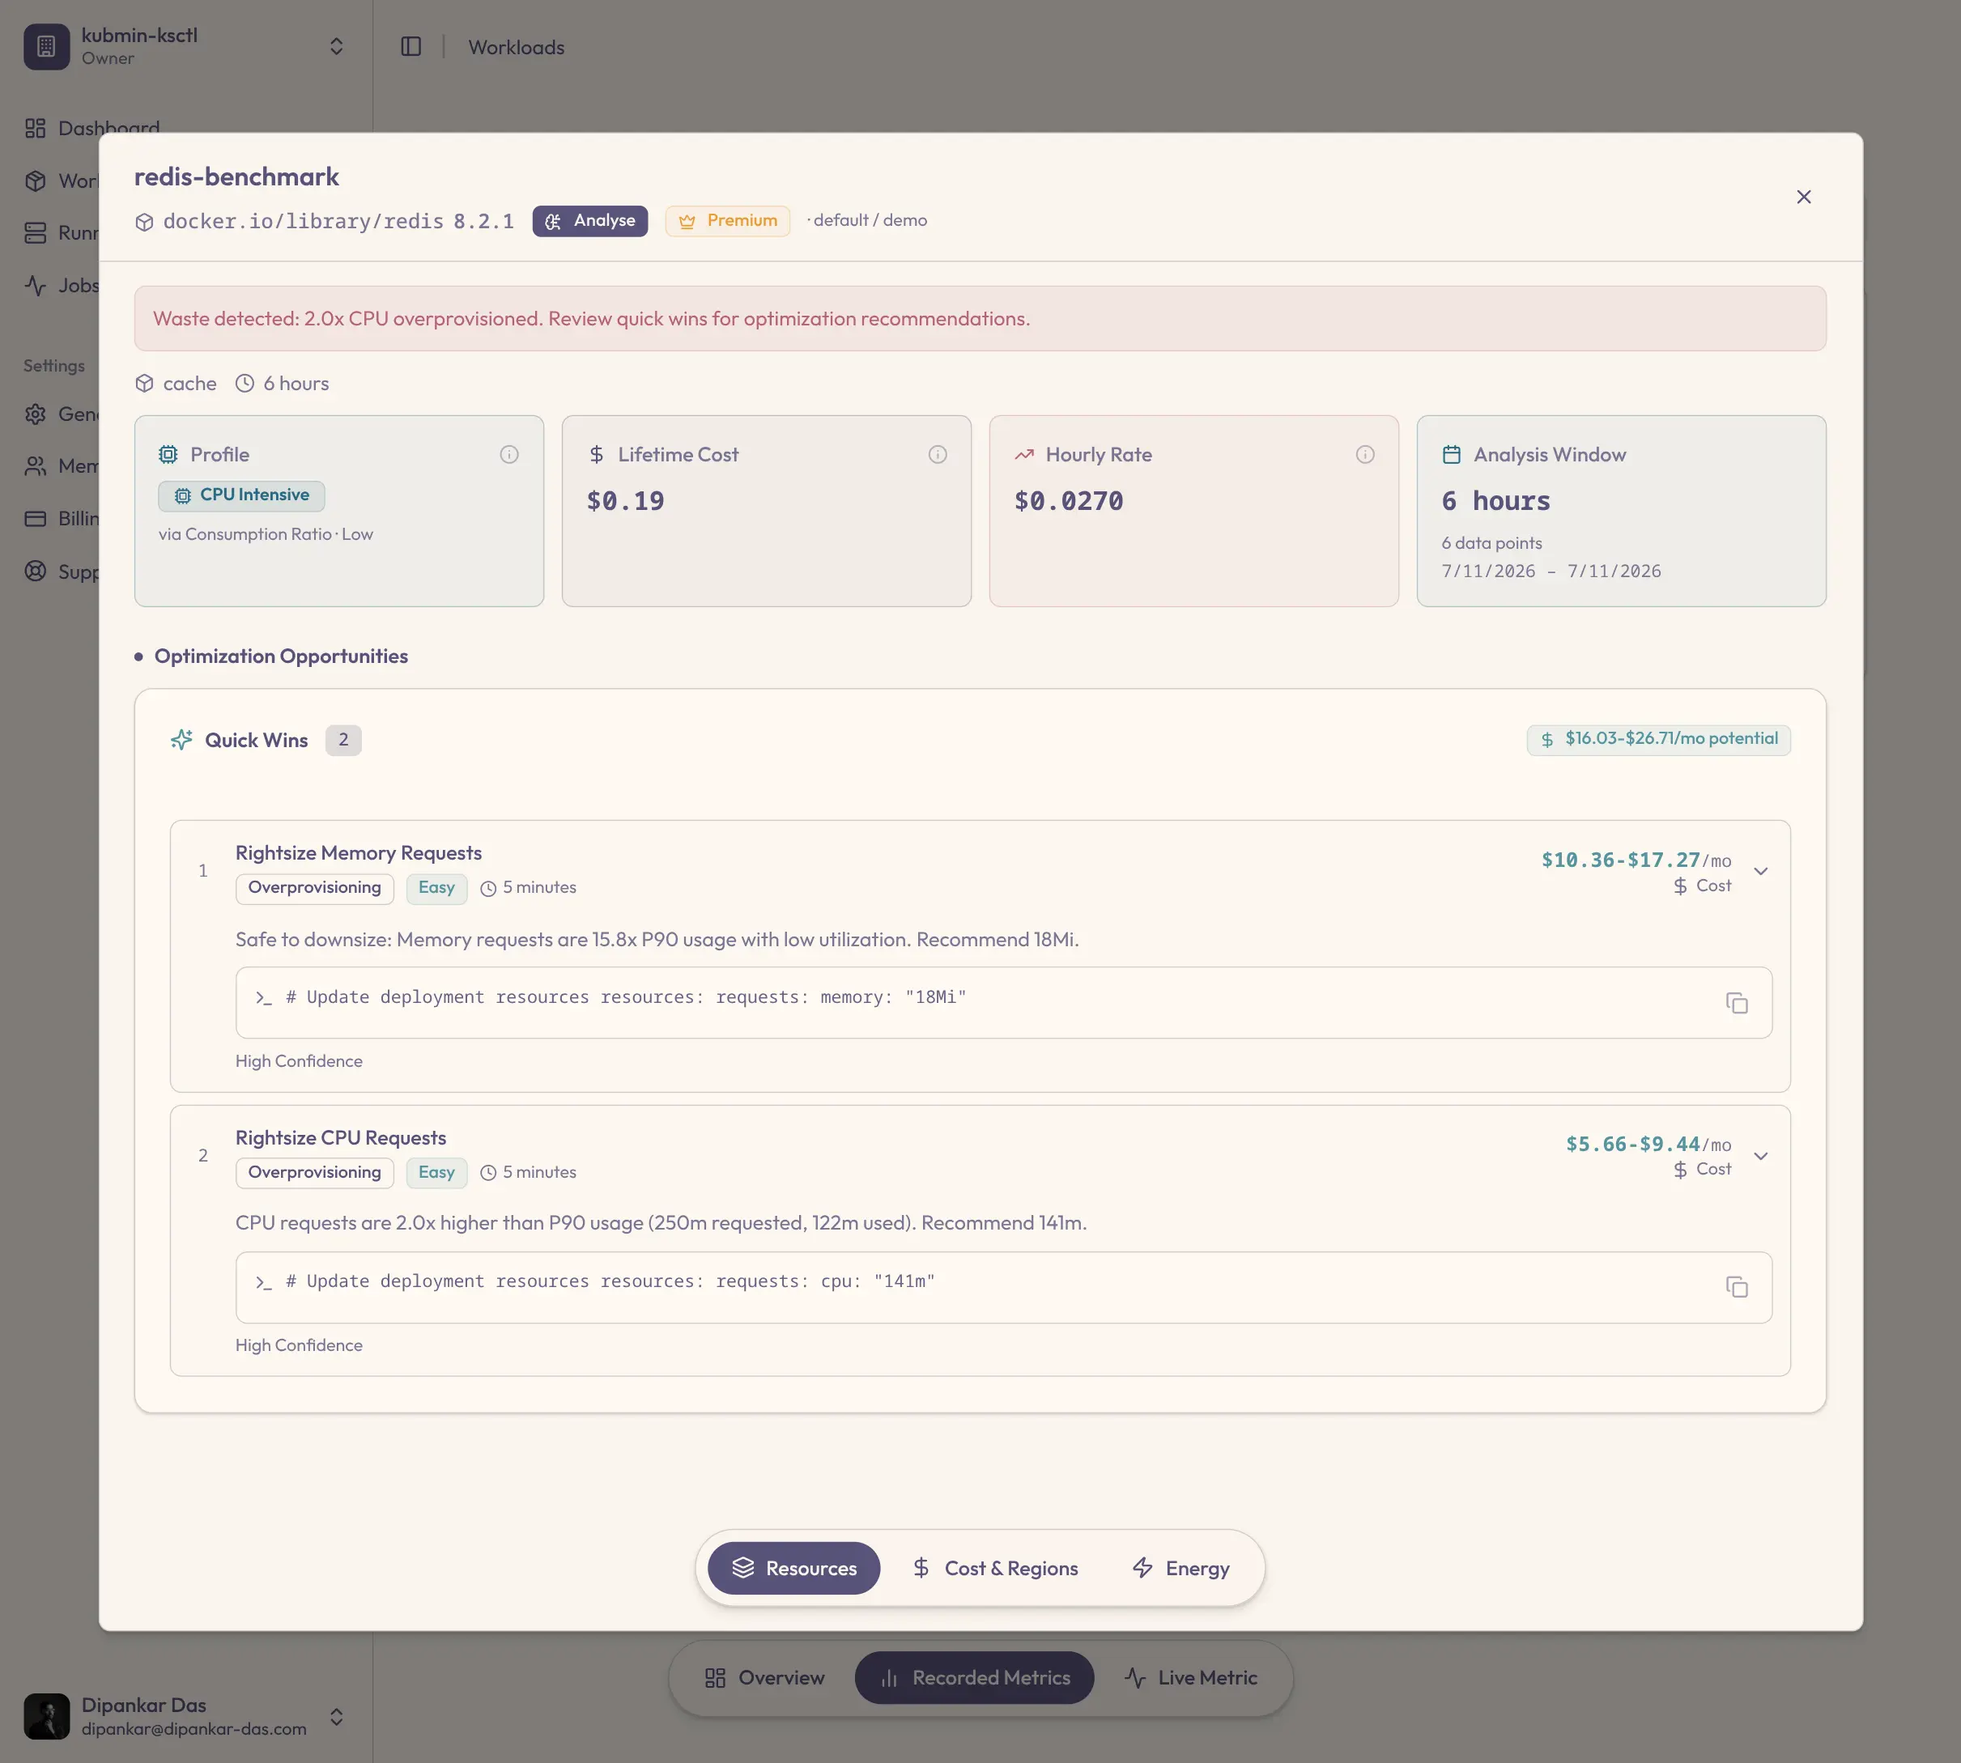
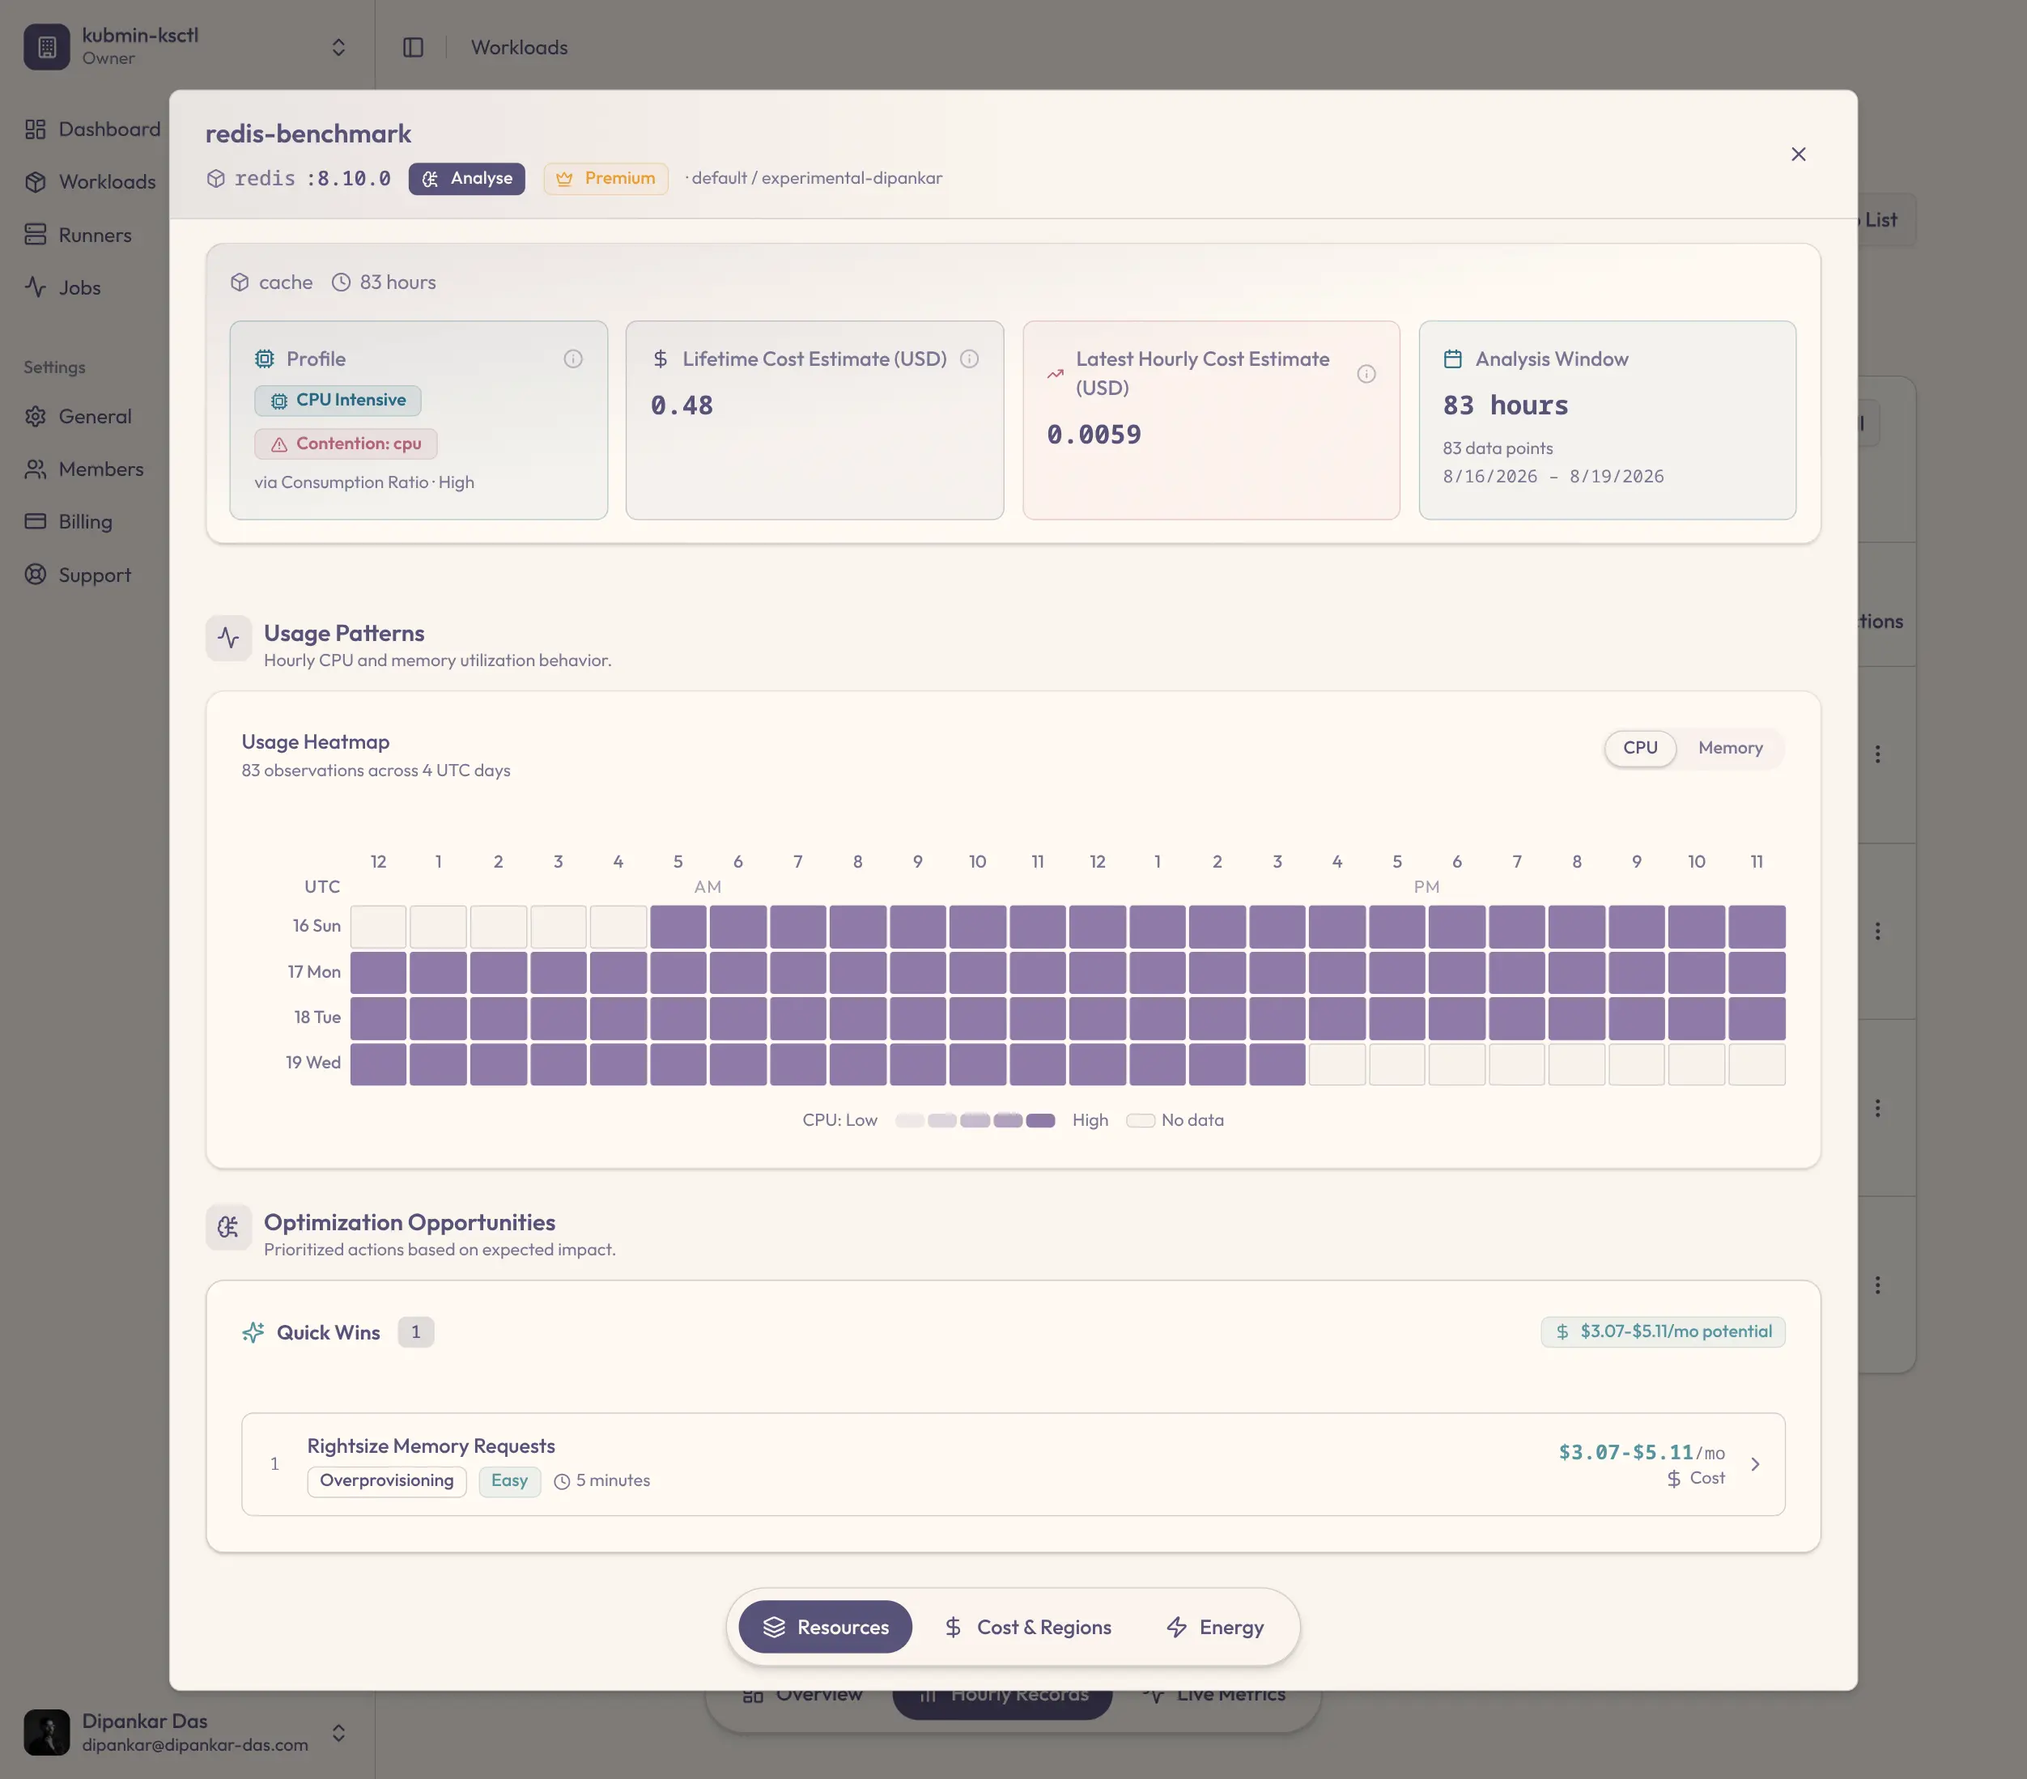
feat(kubmin): adopt SEI and visualize what SCI vs SEI reveal
Rename SEE to SEI (Software Energy Intensity) across the kubmin page to
match the kubmin backend's adoption of the GSF pre-draft SEI metric:
facility energy per measurement unit, where facility energy is Kepler's
IT energy scaled by each cloud's facility PUE (Azure 1.185, AWS 1.135,
GCP 1.1). Update the metric definitions, alt text, feature/comparison
copy, and the functional-unit annotation example to include pod scope.

Replace the SCI/SEI formula block in the measurement-unit section with
two conceptual charts that answer the same question a user cares about:
same workload, same moment, one event (the region's grid getting
greener) - SCI follows the grid while SEI stays flat, showing that SCI
counts where you run and SEI isolates pure efficiency. Refresh the
product screenshots to reflect the SEI UI.

diff --git a/src/data/kubmin.ts b/src/data/kubmin.ts
@@ -5,7 +5,7 @@
 export const meta = {
   title: "Kubmin — The Test Your Pipeline Is Missing: What Each Release Costs to Run",
   description:
-    "Every release is tested; almost none are measured. Kubmin tracks cost, energy, and SCI/SEE carbon per release — in your environment, on your configuration, divided by your app's own measurement unit like the HTTP requests it served.",
+    "Every release is tested; almost none are measured. Kubmin tracks cost, energy, and SCI/SEI carbon per release — in your environment, on your configuration, divided by your app's own measurement unit like the HTTP requests it served.",
 };
 
 export const links = {
@@ -39,7 +39,7 @@ export const hero = {
     "Unit tests pass. Chaos drills survive. Nobody measures what the release costs to run. Kubmin is that missing check.",
   punchlineAccent: "Kubmin is that missing check.",
   explain:
-    "Kubmin measures every release in your environment, on your configuration — cost, energy, and SCI/SEE carbon, divided by your application's own measurement unit: the requests it served, the jobs it ran. Then it points at the fix — idle time, a better region, a better instance type.",
+    "Kubmin measures every release in your environment, on your configuration — cost, energy, and SCI/SEI carbon, divided by your application's own measurement unit: the requests it served, the jobs it ran. Then it points at the fix — idle time, a better region, a better instance type.",
   cta: { text: "Start Free", href: links.app },
   secondaryCta: { text: "See the Redis comparison", href: "#demo" },
   logo: images.logo,
@@ -71,7 +71,7 @@ export const hero = {
   proofPoints: [
     "cost per release",
     "measured in your environment",
-    "SCI + SEE per measurement unit",
+    "SCI + SEI per measurement unit",
     "quick wins, kubectl-ready",
   ],
   screenshot: {
@@ -117,7 +117,7 @@ export const productDemo = {
   },
   screenshot: {
     src: images.screenshots.redis,
-    alt: "Kubmin multi-version comparison showing CPU, memory, energy, SCI, SEE, and cost differences across Redis 8.6.1, 8.4.0, and 8.2.1",
+    alt: "Kubmin multi-version comparison showing CPU, memory, energy, SCI, SEI, and cost differences across Redis 8.6.1, 8.4.0, and 8.2.1",
     browserUrl: "kubmin.ksctl.com/workloads/compareall",
   },
   stats: [
@@ -139,7 +139,7 @@ export const productDemo = {
     {
       value: "31%",
       label: "more efficient — 8.2.1 vs 8.4.0",
-      detail: "on SEE score",
+      detail: "on SEI score",
     },
   ],
   insight:
@@ -167,13 +167,13 @@ export const coreFeatures = {
       chapter: "02a",
       title: "Image Version Deep Profile",
       tag: "your deploy's real footprint",
-      body: "Point kubmin at an image tag and get that version's full running story: hourly SCI and SEE, energy, CPU, memory — and the lifetime cost of running it as a container, from first deploy to today. Not generic pod metrics. Version-scoped truth about what each build costs and consumes in production.",
-      metric: "hourly SCI · SEE · kWh · lifetime $",
+      body: "Point kubmin at an image tag and get that version's full running story: hourly SCI and SEI, energy, CPU, memory — and the lifetime cost of running it as a container, from first deploy to today. Not generic pod metrics. Version-scoped truth about what each build costs and consumes in production.",
+      metric: "hourly SCI · SEI · kWh · lifetime $",
       hasCrossRef: true,
       glow: "primary",
       screenshot: {
         src: "/kubmin/workload-detail-hourly.webp",
-        alt: "Kubmin hourly deep profile for redis 8.2.1 — SCI score, SEE score, operational and embodied carbon, energy, and P95 utilization",
+        alt: "Kubmin hourly deep profile for redis 8.2.1 — SCI score, SEI score, operational and embodied carbon, energy, and P95 utilization",
         browserUrl: "kubmin.ksctl.com/workloads/details",
       },
     },
@@ -182,13 +182,13 @@ export const coreFeatures = {
       chapter: "02b",
       title: "Version-over-Version Comparison",
       tag: "efficiency measured per release",
-      body: "Compare image versions across CPU, memory, energy, SCI, SEE, and runtime cost — per measurement unit of work. Ship a new release and know within hours whether it regressed 30% on efficiency, before the regression compounds into your bill.",
+      body: "Compare image versions across CPU, memory, energy, SCI, SEI, and runtime cost — per measurement unit of work. Ship a new release and know within hours whether it regressed 30% on efficiency, before the regression compounds into your bill.",
       metric: "caught +63% CPU drift between tags",
       hasCrossRef: true,
       glow: "energy",
       screenshot: {
         src: "/kubmin/compare-redis-casestudy.webp",
-        alt: "Kubmin image version comparison — SEE, overall carbon, energy, and SCI per tracked version",
+        alt: "Kubmin image version comparison — SEI, overall carbon, energy, and SCI per tracked version",
         browserUrl: "kubmin.ksctl.com/workloads/compareall",
       },
     },
@@ -259,10 +259,10 @@ export const whyEnergy = {
         "an ISO-accredited standard (ISO/IEC 21031:2024): the rate of carbon emissions per measurement unit of software — sensitive to energy efficiency, hardware efficiency, and carbon awareness.",
     },
     {
-      name: "SEE",
-      full: "Software Energy Efficiency",
+      name: "SEI",
+      full: "Software Energy Intensity",
       description:
-        "raw energy (kWh) per measurement unit — deliberately blind to grid carbon intensity, so pure efficiency regressions can't hide behind a cleaner grid.",
+        "facility energy (kWh) per measurement unit — Kepler's IT energy scaled by each cloud's facility PUE — deliberately blind to grid carbon intensity, so pure efficiency regressions can't hide behind a cleaner grid. A GSF pre-draft; Kubmin tracks it as provisional.",
     },
   ],
   combined:
@@ -310,19 +310,47 @@ export const measurementUnit = {
       scope: pod
       metric: http_requests_total
       match:
+        pod: $KUBMIN_POD_NAME
         container: $KUBMIN_CONTAINER_NAME`,
   outputsTitle: "what you read back, per release",
   outputs: [
-    { value: "kWh / request", note: "SEE — energy per measurement unit" },
+    { value: "kWh / request", note: "SEI — facility energy per measurement unit (PUE-adjusted)" },
     { value: "gCO₂e / request", note: "SCI — carbon per measurement unit" },
     { value: "$ / 1M requests", note: "runtime cost, in your units" },
   ],
-  formula: {
-    lead: "SCI",
-    numerator: "operational + embodied carbon",
-    denominator: "R — your measurement unit",
-    caption:
-      "R is whatever your application calls work: requests served, jobs processed, transactions settled. You declare it once — kubmin divides by it forever.",
+  insightCharts: {
+    heading: "Two scores. Two questions.",
+    headingAccent: "Two questions.",
+    intro:
+      "Same workload, same moment — the only thing that changes at the marker is the region's grid. Watch what each score does, and what it can tell you.",
+    charts: [
+      {
+        id: "sci",
+        label: "SCI · carbon per request",
+        tag: "gCO₂e / request",
+        legend: [
+          { key: "grid", label: "grid carbon intensity — where you run" },
+          { key: "sci", label: "SCI — follows the grid" },
+        ],
+        caption:
+          "Same code, same traffic. At the marker the region's grid gets greener — and SCI falls. SCI counts where you run: the full carbon per request, grid included.",
+        takeaway:
+          "How clean is this release for the planet? A greener region or a more efficient image both improve SCI — you see the total, not the cause.",
+      },
+      {
+        id: "sei",
+        label: "SEI · energy per request",
+        tag: "kWh / request",
+        legend: [
+          { key: "grid", label: "grid carbon intensity — same moment" },
+          { key: "sei", label: "SEI — ignores the grid" },
+        ],
+        caption:
+          "The same workload, the same moment — SEI doesn't flinch. Facility energy per request is pure efficiency, grid left out.",
+        takeaway:
+          "Is the code actually more efficient? When SEI climbs, your release regressed — no cleaner region can hide it, no dirtier grid can fake it.",
+      },
+    ],
   },
 };
 
@@ -342,7 +370,7 @@ export const howItWorks = {
     },
     {
       title: "Instrument Apps and See Results",
-      body: "Point your apps at Kubmin's in-cluster OTLP gRPC or HTTP endpoint. Kubmin turns metrics, logs, traces, and Kepler energy data into workload cost, efficiency, SCI/SEE, and Quick Wins.",
+      body: "Point your apps at Kubmin's in-cluster OTLP gRPC or HTTP endpoint. Kubmin turns metrics, logs, traces, and Kepler energy data into workload cost, efficiency, SCI/SEI, and Quick Wins.",
     },
   ],
   cta: { text: "Start Free", href: links.app },
@@ -373,7 +401,7 @@ export const comparisonTable = {
       values: ["✗", "✗", "✗", "✓"],
     },
     {
-      capability: "SCI + SEE per measurement unit (ISO/IEC 21031)",
+      capability: "SCI + SEI per measurement unit (ISO/IEC 21031)",
       values: ["✗", "✗", "✗", "✓"],
     },
     {
@@ -532,7 +560,7 @@ Indirect efficiency gains: When you right-size inefficient workloads, they consu
 
 Kubecost tracks pod-level cost allocation based on resource requests — it's a FinOps tool, not an efficiency tool. Prometheus + Grafana gives you raw metrics but requires manual setup for any waste detection or version comparison. AWS Cost Explorer operates at the EC2 level and has no visibility into individual containers.
 
-None of these tools track per-workload energy consumption, compare efficiency across deployment versions, import existing clusters with guided observability, or provide SCI/SEE sustainability scores. Kubmin was built specifically because this gap existed.`,
+None of these tools track per-workload energy consumption, compare efficiency across deployment versions, import existing clusters with guided observability, or provide SCI/SEI sustainability scores. Kubmin was built specifically because this gap existed.`,
     },
     {
       q: "Do I need to change my deployment workflow?",
